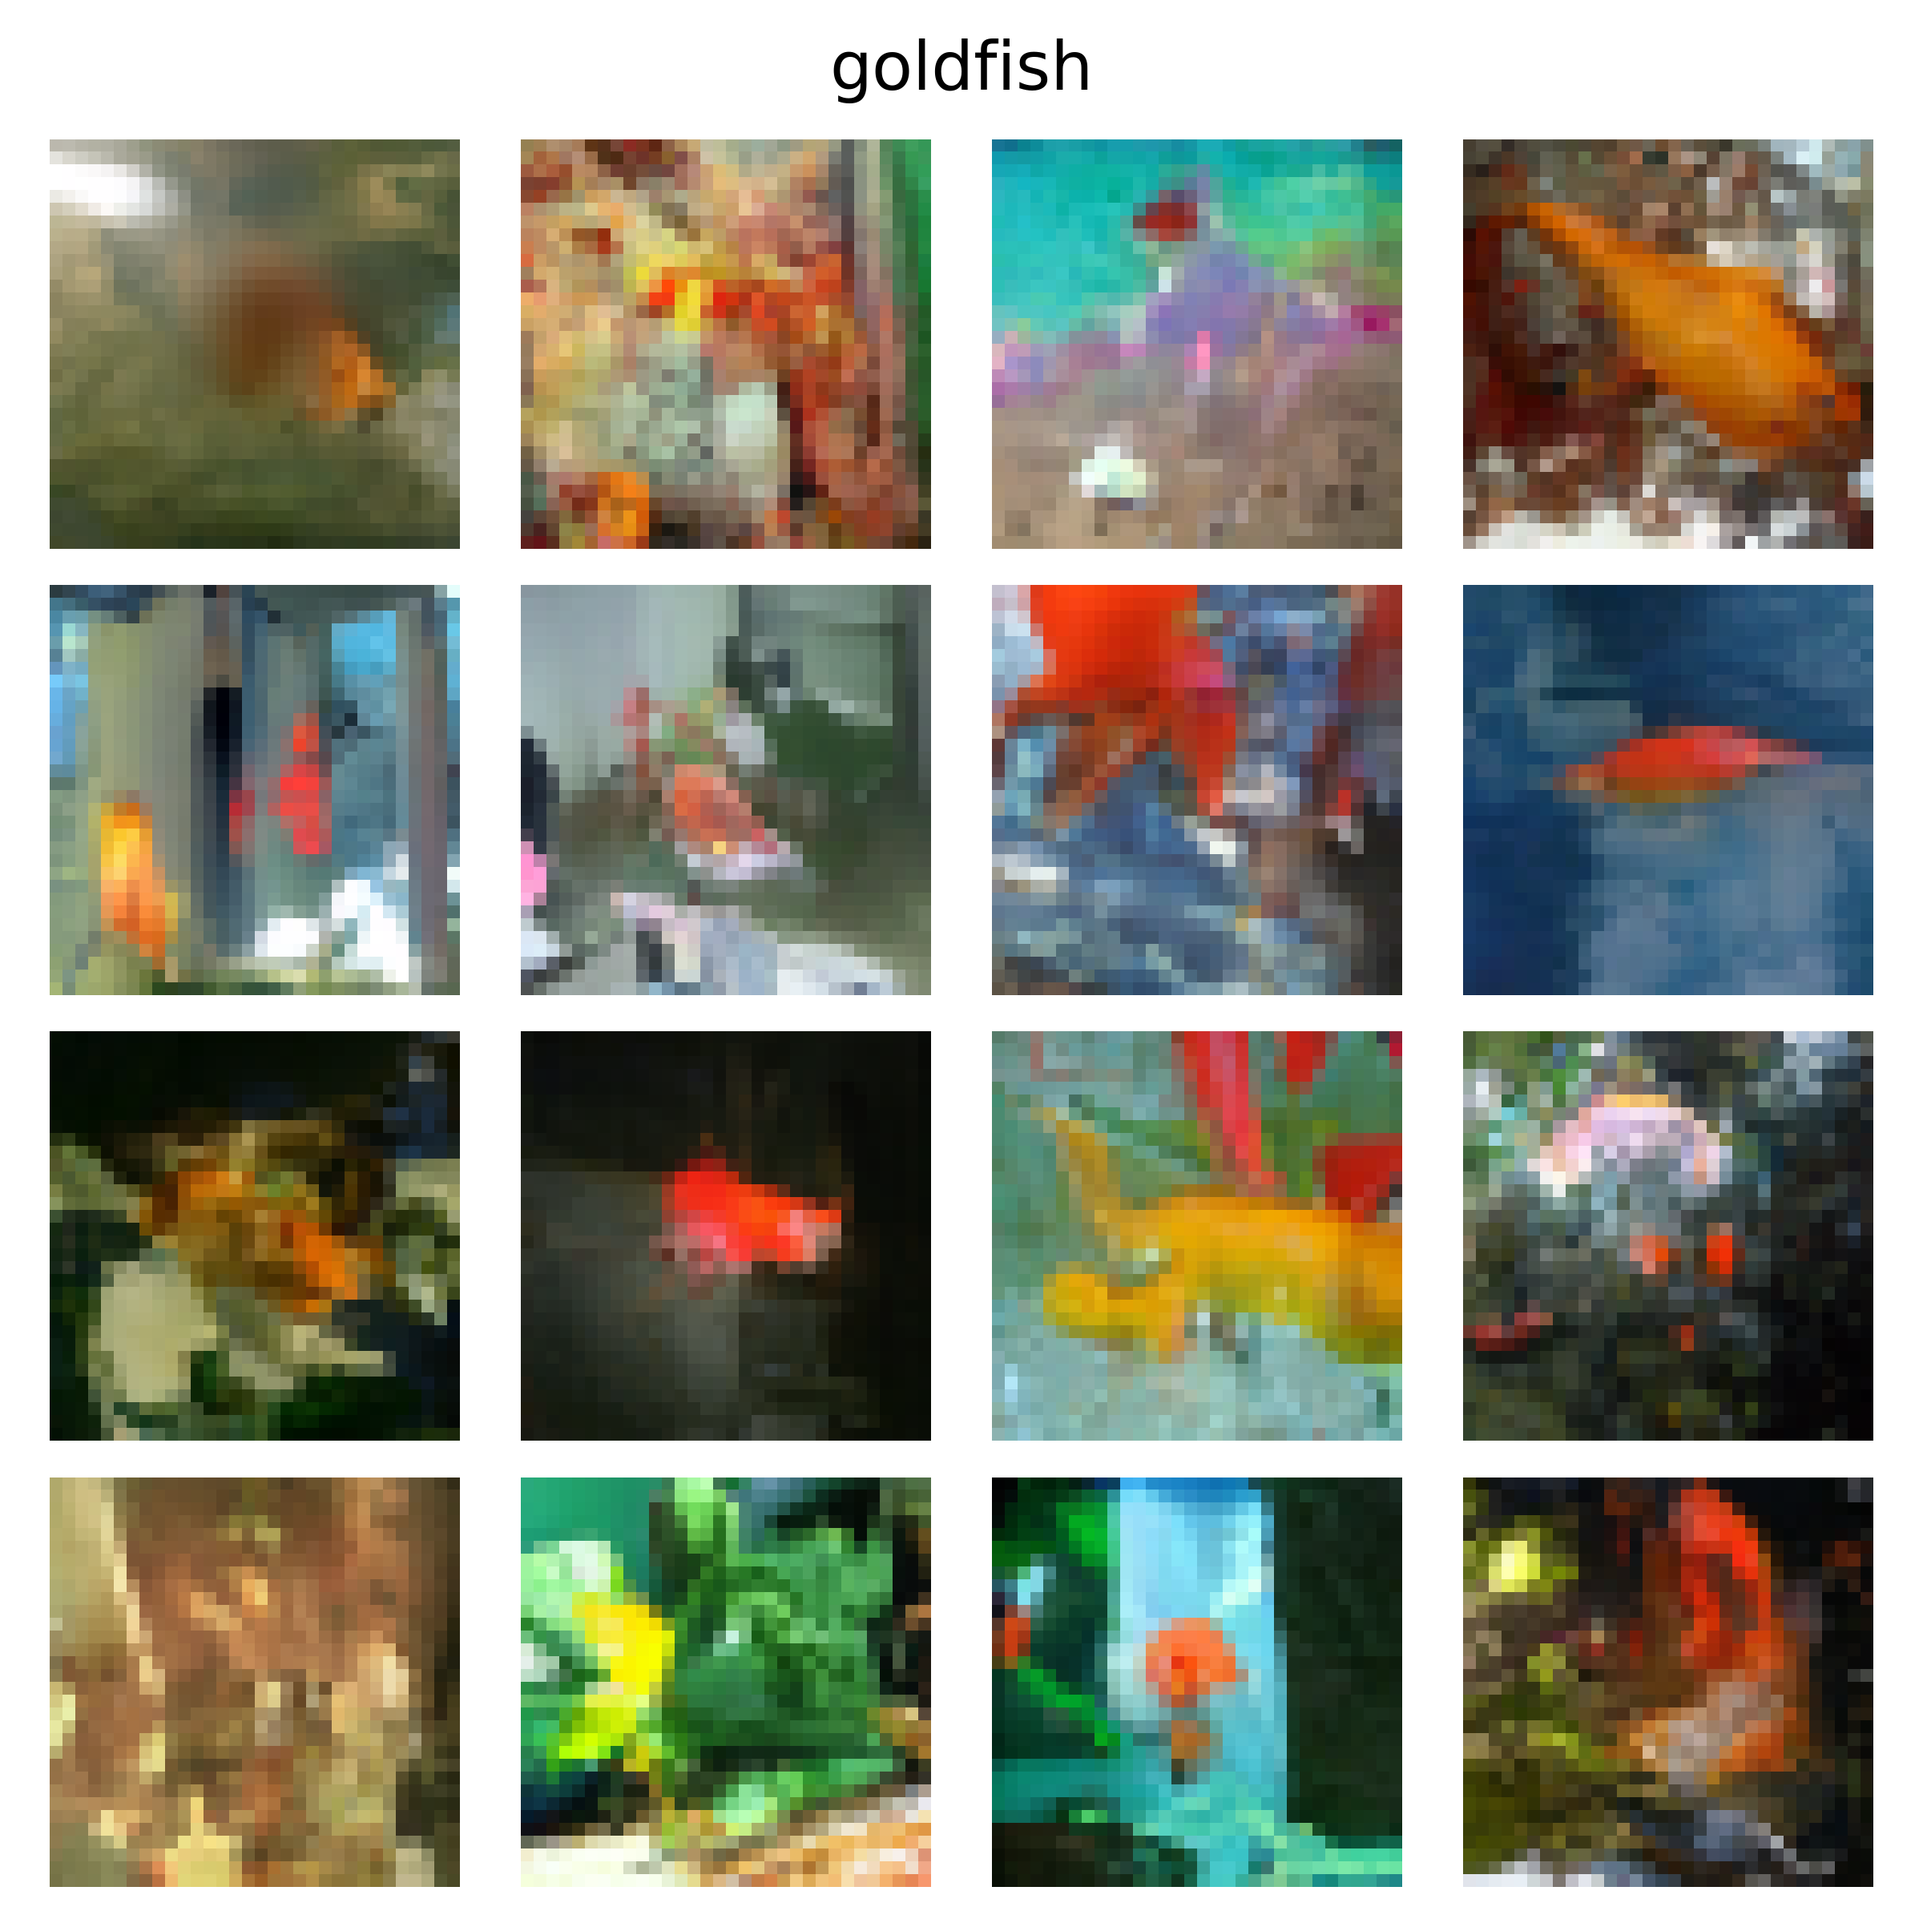
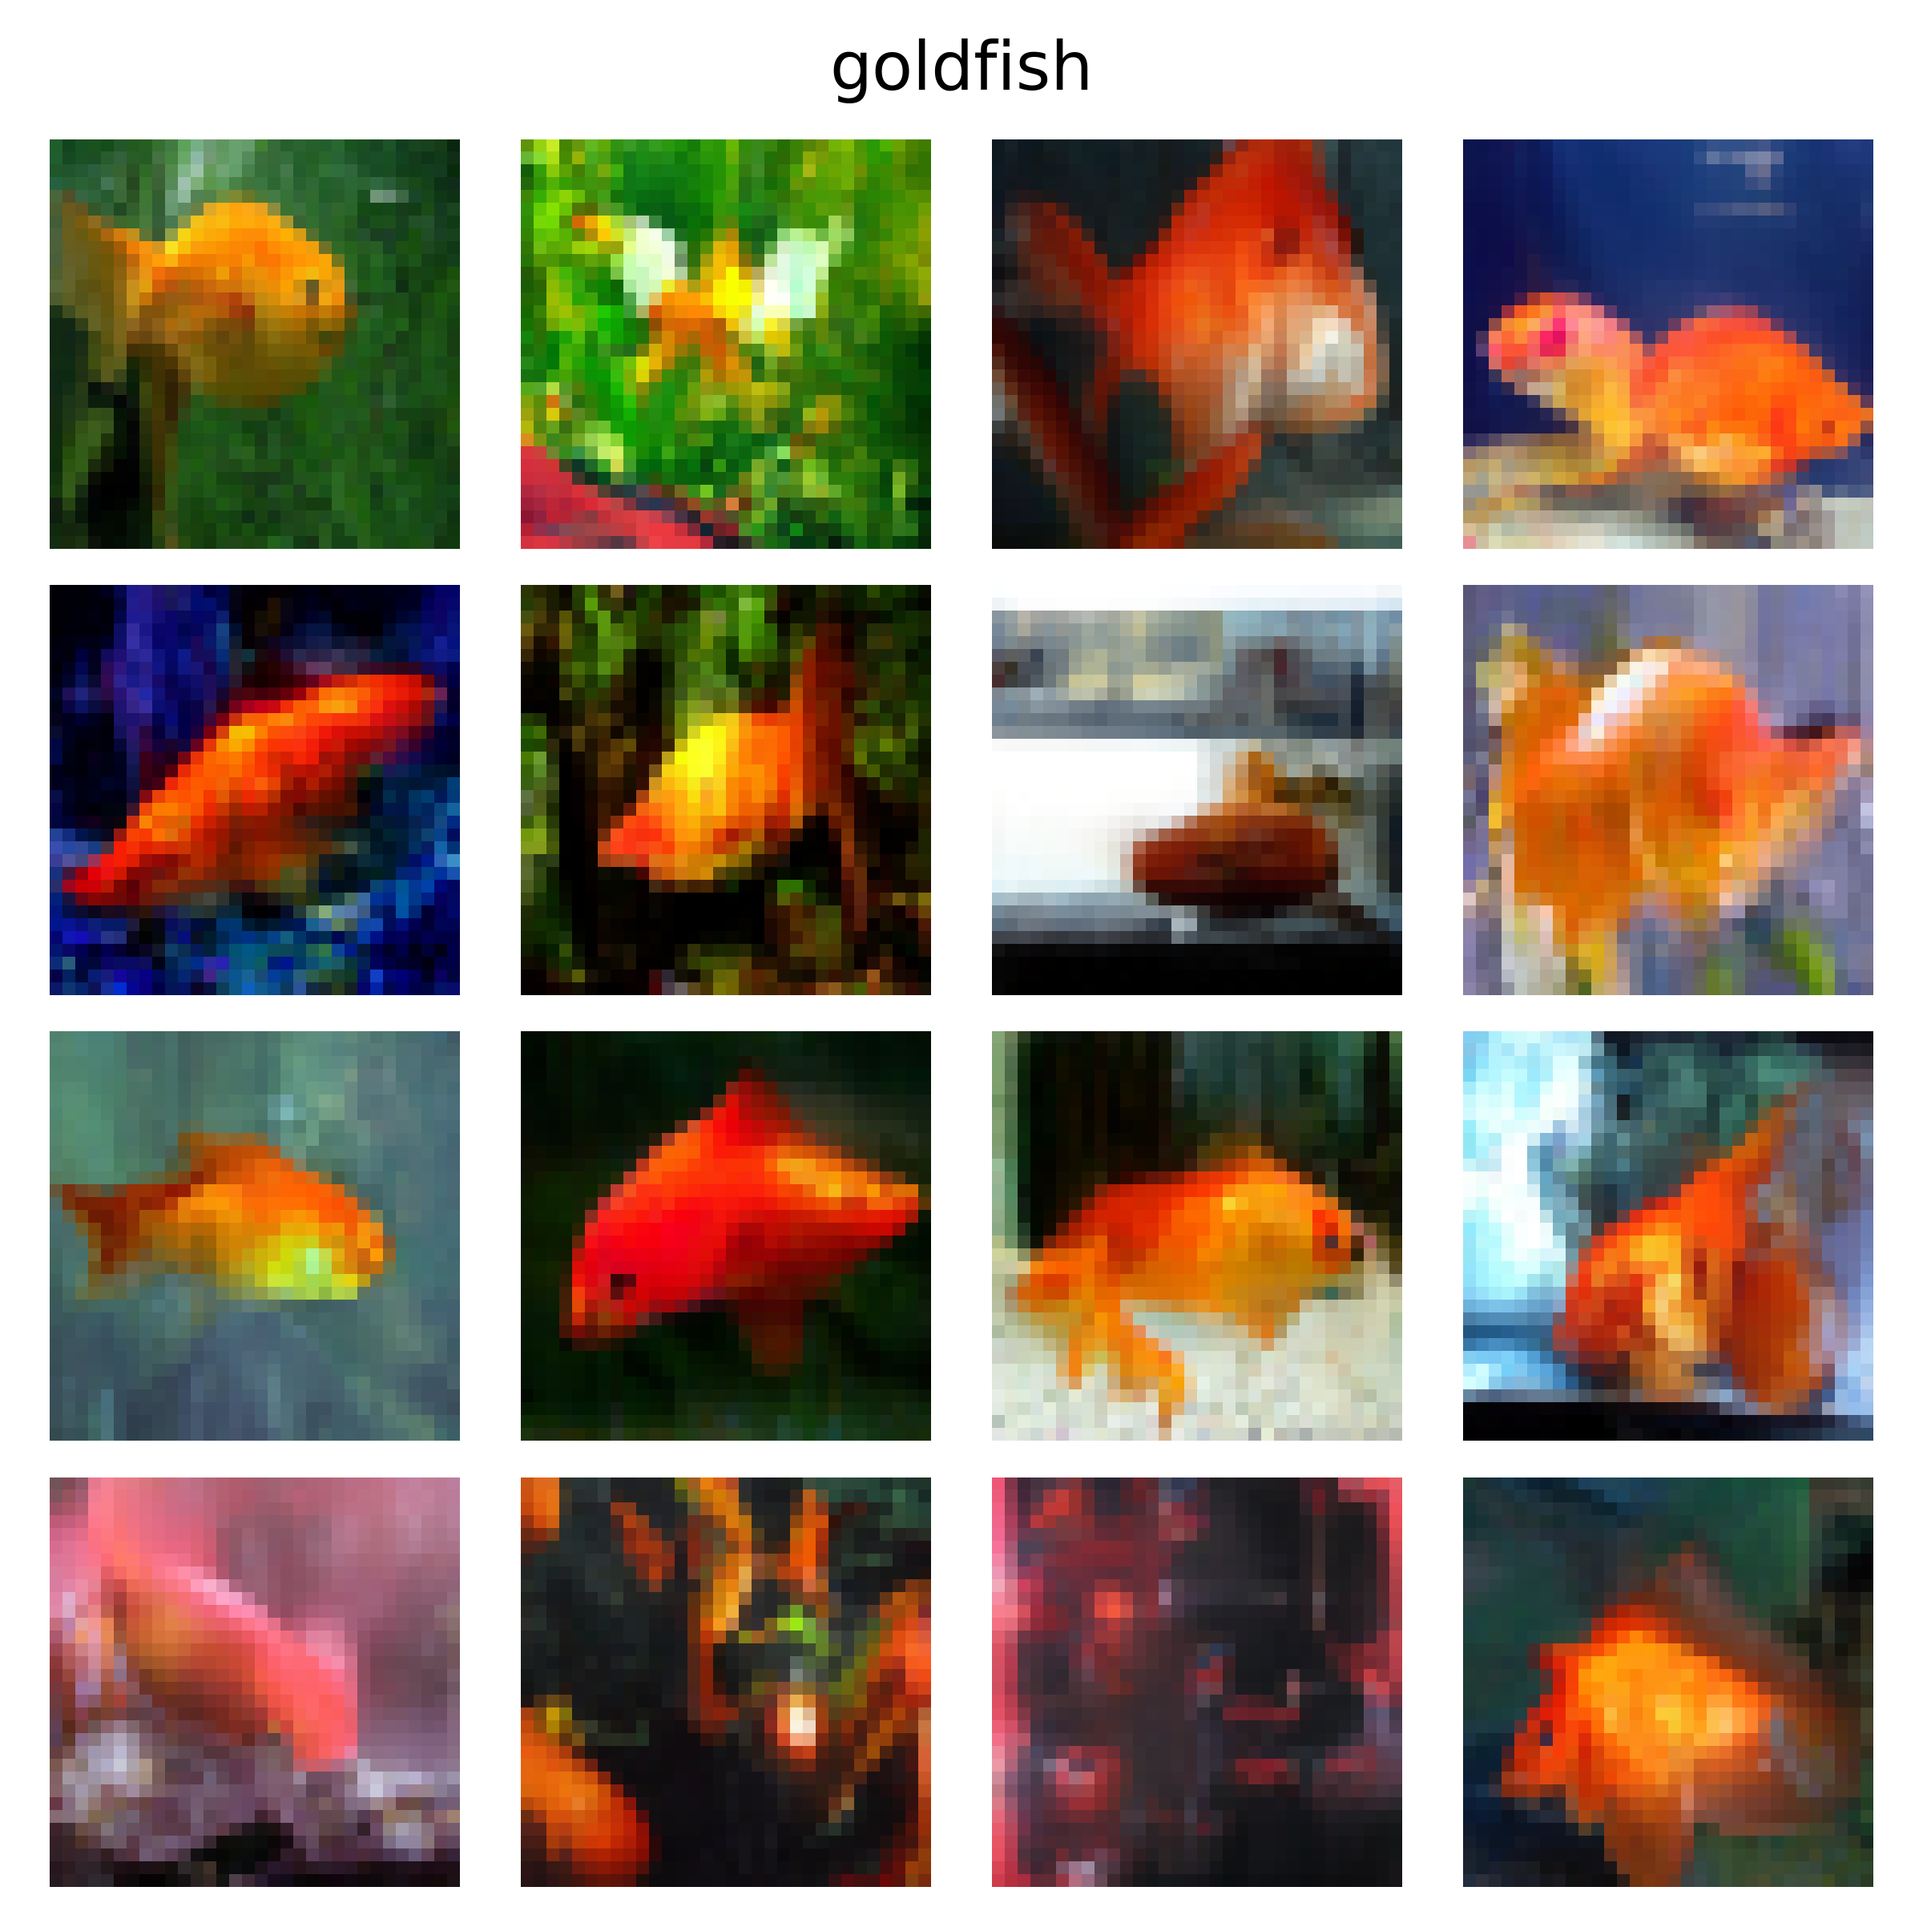
Added evaluation of images

diff --git a/run_performance_evaluation.py b/run_performance_evaluation.py
@@ -1,0 +1,87 @@
+from torchmetrics.image.fid import FrechetInceptionDistance
+from src.utils import get_device
+from src.data import ImageNet64Dataset
+import torch
+from src.model import ConditionalUNet
+from src.sampler import sample_images
+from datetime import datetime
+from torch.utils.data import DataLoader
+
+device = get_device()
+print(device, flush = True)
+
+batch_size = 1000
+num_steps = 300
+fid = FrechetInceptionDistance(feature=2048).to(device)
+val_root = "/home/pml02/datasets/ImageNet_val_32x32"
+
+ds_test = ImageNet64Dataset(val_root)
+fid_loader = DataLoader(ds_test, batch_size=batch_size, shuffle=True, drop_last=False, num_workers=2, pin_memory=True, persistent_workers=True)
+
+model = ConditionalUNet(
+    num_classes=1001,
+    in_channels=3,
+    out_channels=3,
+    model_channels=128,
+    num_res_blocks=2,
+    channel_mult=(1, 2, 4),
+    attention_resolutions=(8, 4),
+    dropout=0.0
+)
+
+print("Loading Model...", flush = True)
+model.load_state_dict(torch.load("models/model_test_4.pt", map_location=device))
+model.to(device)
+model.eval()
+fid.reset()
+
+real_count = 0
+fake_count = 0
+num_samples = 10000
+
+print("Loading real images...", flush = True)
+for real_imgs, _ in fid_loader:
+    real_imgs = real_imgs.to(device)
+
+    if real_count + real_imgs.size(0) > num_samples:
+        needed = num_samples - real_count
+        real_imgs = real_imgs[:needed]
+
+    real_imgs_uint8 = (real_imgs * 255).to(torch.uint8)
+    fid.update(real_imgs_uint8, real=True)
+
+    real_count += real_imgs.size(0)
+    if real_count >= num_samples:
+        break
+    
+i = 1
+print("Sampling fake images...", flush = True)
+start_time = datetime.now()
+while fake_count < num_samples:
+    y = torch.arange(1, 1001, device=device, dtype=torch.long)
+    fake_imgs = sample_images(
+        model,
+        w = 1.5,
+        y = y,
+        batch_size=batch_size,
+        device=device,
+        num_steps=200,
+        C=3,
+        H=32,
+        W=32
+    ).to(device)
+            
+    fake_imgs_uint8 = (fake_imgs * 255).to(torch.uint8)
+    fid.update(fake_imgs_uint8, real=False)
+    print(f"Finished batch {i}", flush = True)
+    i += 1
+    fake_count += batch_size
+    end_time = datetime.now()
+    duration = end_time - start_time
+    print(f"    Batch time: {duration}", flush = True)
+    start_time = datetime.now()
+
+print("Calculating fid...", flush = True)
+fid_value = fid.compute().item()
+
+print(f"FID score: {fid_value:.2f}", flush = True)

diff --git a/src/sampler.py b/src/sampler.py
@@ -32,18 +32,22 @@ def sampling_from_guided_flows(model, device='cuda', y=0, w=1.0, num_steps=100, 
     return x_t.detach().cpu().numpy()
 
 @torch.no_grad()
-def midpoint_solver(model: nn.Module, x_t, t, h, y):
+def midpoint_solver(model: nn.Module, x_t, t, h, y, w):
     """
     Midpoint ODE step: x_{t+h} = x_t + h * u(t + h/2, x_t + h/2 * u(t))
     """
-    u_t = model(x_t, t, y)
+    y0 = torch.zeros_like(y)
+    
+    u_t = (1 - w) * model(x_t, t, y0) + w * model(x_t, t, y)
     t_mid = t + 0.5 * h
     x_mid = x_t + 0.5 * h * u_t
-    u_mid = model(x_mid, t_mid, y)
+    
+    u_mid = (1 - w) * model(x_mid, t_mid, y0) + w * model(x_mid, t_mid, y)
+    
     return x_t + h * u_mid
 
 @torch.no_grad()
-def sample_images(model, device = "cuda", y=None, num_steps=100, batch_size=128, C=3, H=64, W=64):
+def sample_images(model, w = 1.5, device = "cuda", y=None, num_steps=100, batch_size=128, C=3, H=64, W=64):
     model.eval()
     
     x_t = sample_image_noise(batch_size, C, H, W, device = device)
@@ -61,8 +65,9 @@ def sample_images(model, device = "cuda", y=None, num_steps=100, batch_size=128,
         raise ValueError("y must be None, int, or torch.Tensor")
     
     for i in range(num_steps):
-        x_t = midpoint_solver(model, x_t, t, h, y)
+        x_t = midpoint_solver(model, x_t, t, h, y, w)
         t = t + h
+        print(f"{i + 1}-th step completed", flush = True)
             
     x_t = torch.clamp(x_t, 0.0, 1.0)
     
